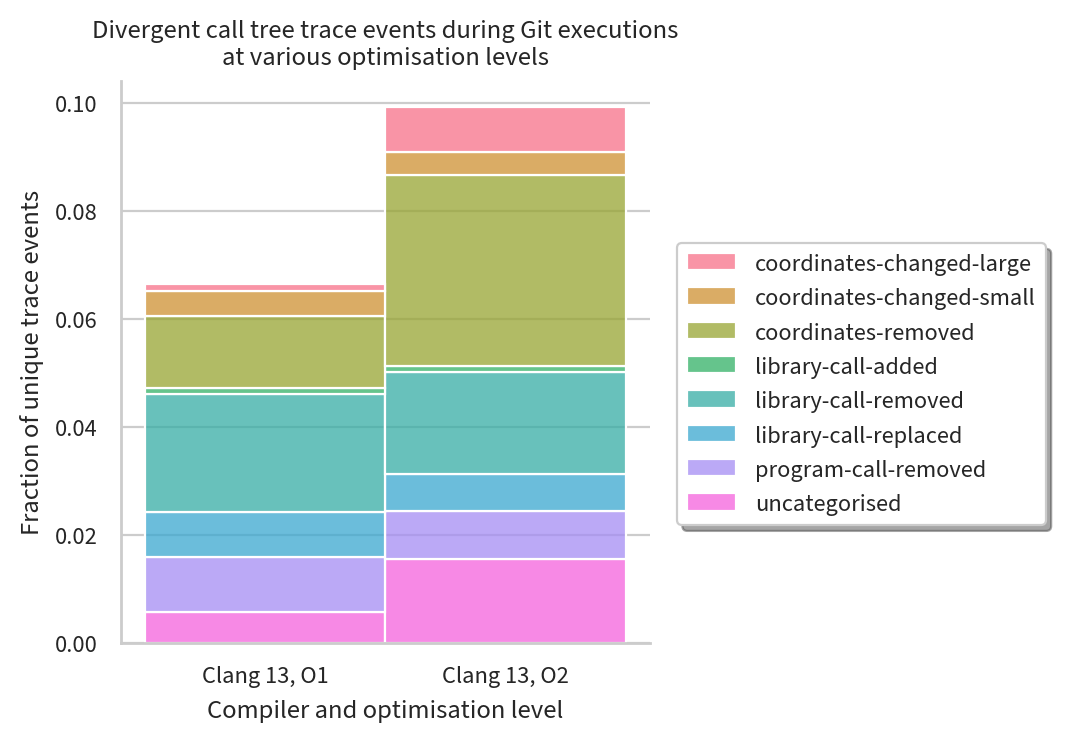
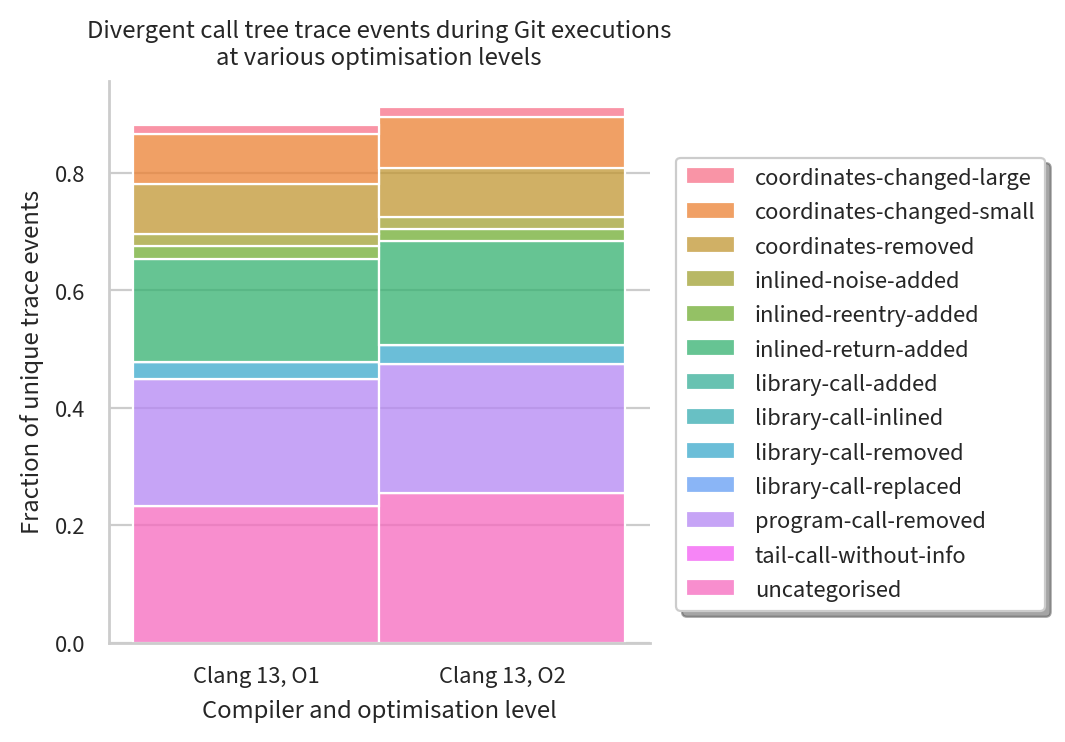
Update remaining figures using data we have so far

diff --git a/data/consistency-concrete/shared/package_plots.py b/data/consistency-concrete/shared/package_plots.py
@@ -49,7 +49,7 @@ def load_data():
 
   def read_run(dir, variant):
     df = None
-    for count_file in glob.iglob(f"{dir}/divergences/summary/default/counts/*"):
+    for count_file in glob.iglob(f"{dir}/divergences/default/counts/*"):
       df_segment = read_file(count_file)
       df_divergence_type = os.path.basename(count_file)
       df_segment["Divergence Type"] = df_divergence_type
@@ -61,10 +61,10 @@ def load_data():
   read_run("clang/13/O1", ("Clang", "13", "O1"))
   read_run("clang/13/O2", ("Clang", "13", "O2"))
   read_run("clang/18/O1", ("Clang", "18", "O1"))
-  read_run("gcc/11/O1", ("GCC", "11", "O1"))
+  # read_run("gcc/11/O1", ("GCC", "11", "O1"))
   # Lots of "no info for this address", skipping for now
   # read_run("gcc/11/O2", ("GCC", "11", "O2"))
-  read_run("gcc/14/O1", ("GCC", "14", "O1"))
+  # read_run("gcc/14/O1", ("GCC", "14", "O1"))
 
   def df_keys(df):
     keys = df.variant
